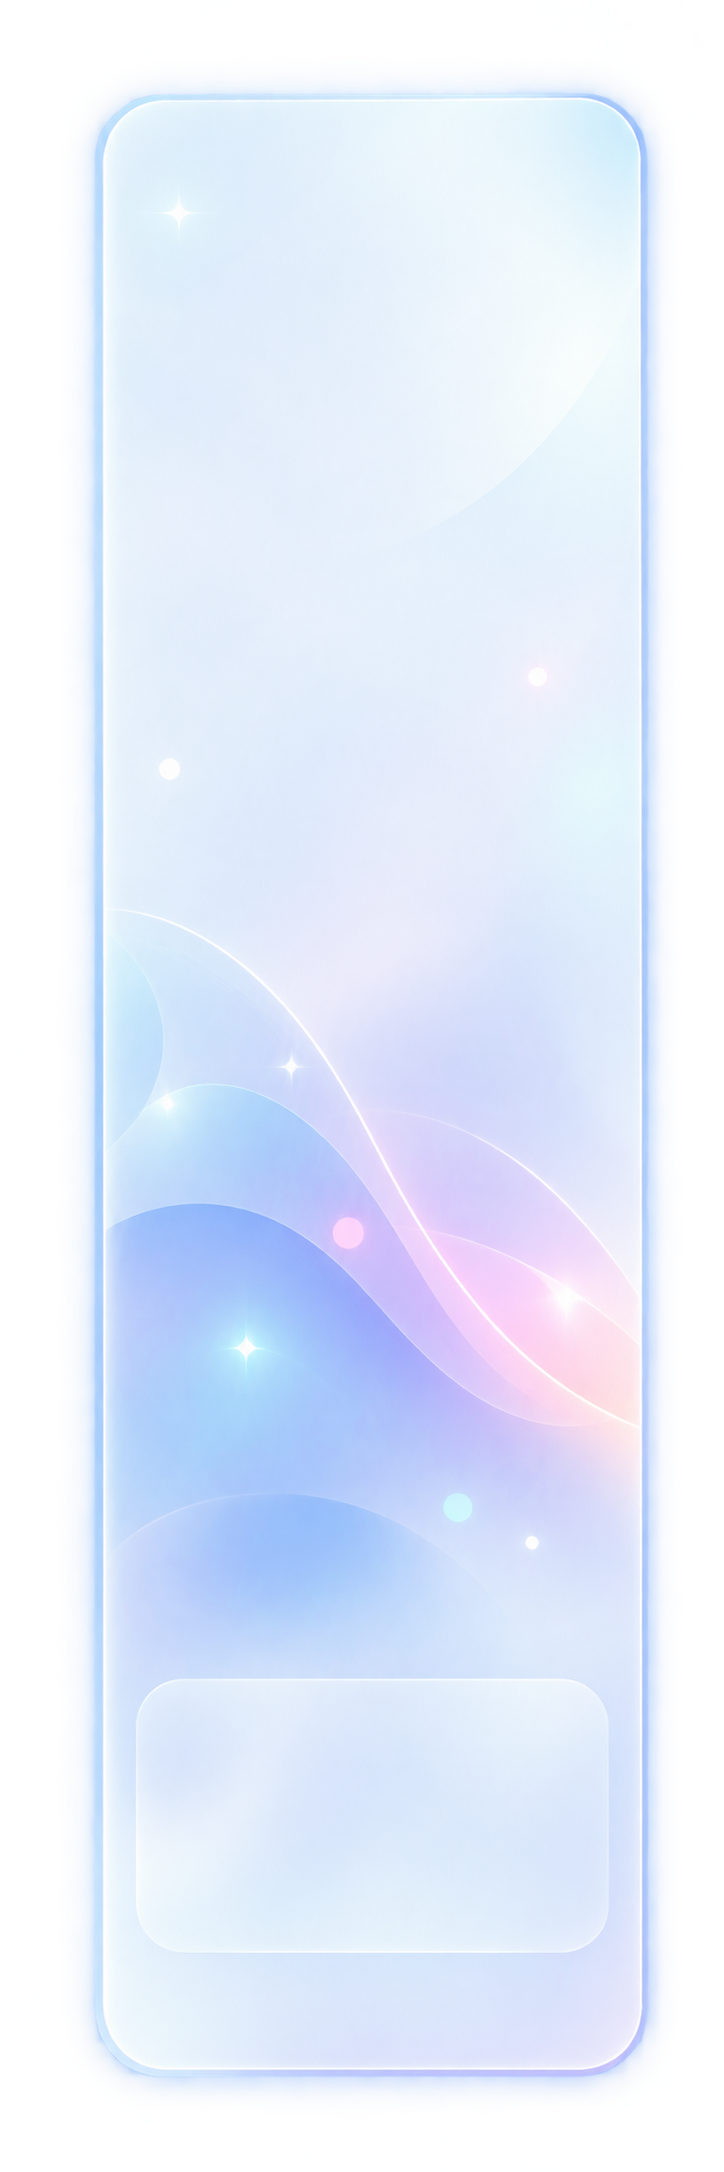
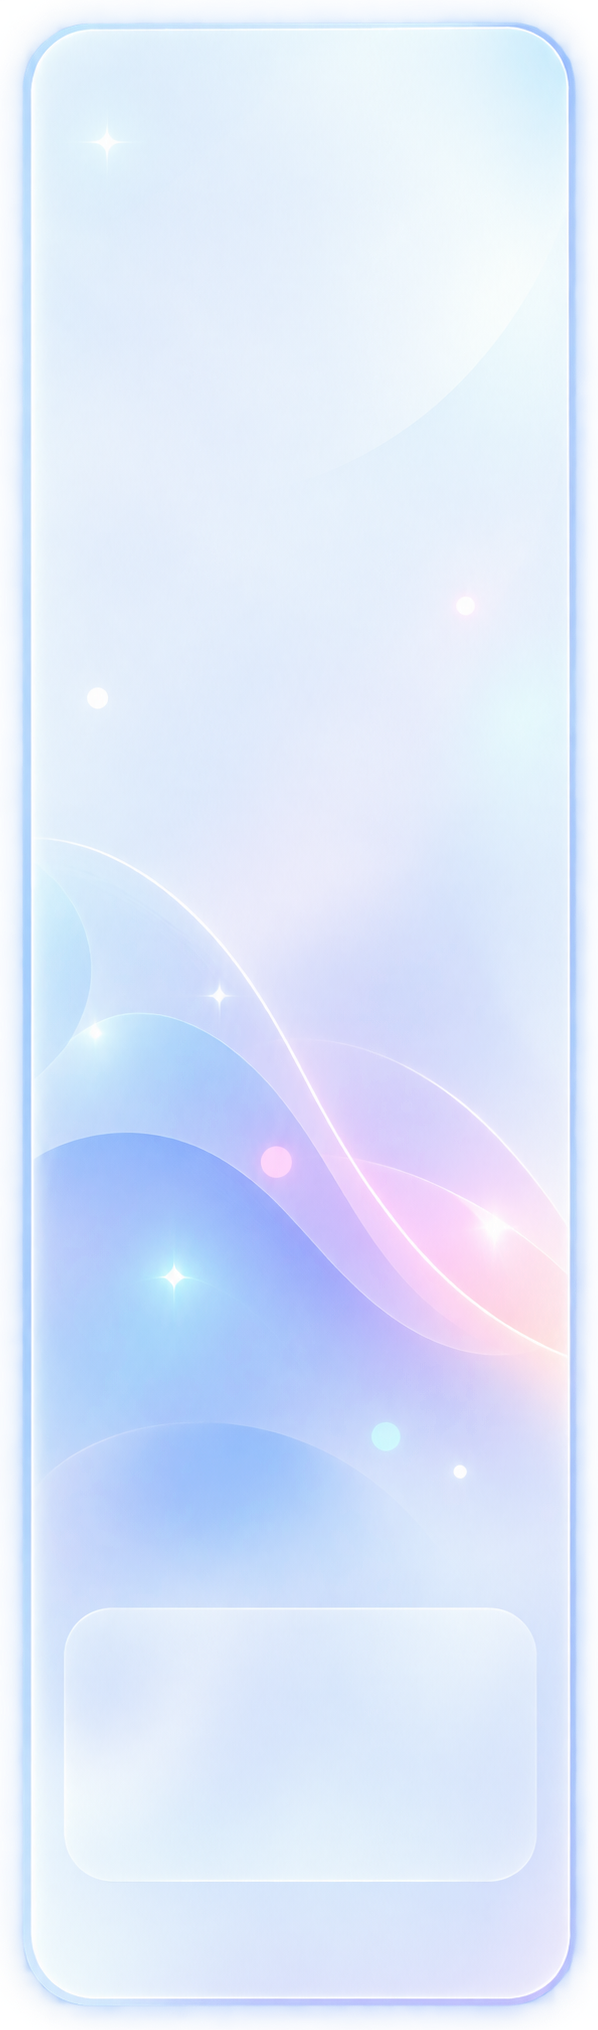
feat(ui): refine dashboard assets opacity, alignments and layout stretching

diff --git a/frontend_admin/lib/widgets/dashboard_components.dart b/frontend_admin/lib/widgets/dashboard_components.dart
@@ -41,10 +41,12 @@ abstract final class DashboardTokens {
 
 class DashboardAuroraBackground extends StatelessWidget {
   final bool useAsset;
+  final double assetOpacity;
 
   const DashboardAuroraBackground({
     super.key,
     this.useAsset = true,
+    this.assetOpacity = PremiumDashboardAssets.defaultOpacity,
   });
 
   @override
@@ -79,12 +81,16 @@ class DashboardAuroraBackground extends StatelessWidget {
           ),
           if (useAsset)
             Positioned.fill(
-              child: Image.asset(
-                PremiumDashboardAssets.mainCanvasBackground,
-                fit: BoxFit.cover,
-                alignment: Alignment.topCenter,
-                errorBuilder: (context, error, stackTrace) =>
-                    const SizedBox.shrink(),
+              child: Opacity(
+                opacity: assetOpacity,
+                child: Image.asset(
+                  PremiumDashboardAssets.mainCanvasBackground,
+                  fit: BoxFit.cover,
+                  alignment: Alignment.topCenter,
+                  filterQuality: FilterQuality.medium,
+                  errorBuilder: (context, error, stackTrace) =>
+                      const SizedBox.shrink(),
+                ),
               ),
             ),
         ],
@@ -105,6 +111,7 @@ class DashboardSurfaceCard extends StatelessWidget {
   final Color? backgroundColor;
   final Color? overlayColor;
   final List<BoxShadow>? boxShadow;
+  final double assetOpacity;
 
   const DashboardSurfaceCard({
     super.key,
@@ -119,6 +126,7 @@ class DashboardSurfaceCard extends StatelessWidget {
     this.backgroundColor,
     this.overlayColor,
     this.boxShadow,
+    this.assetOpacity = PremiumDashboardAssets.defaultOpacity,
   });
 
   @override
@@ -139,12 +147,16 @@ class DashboardSurfaceCard extends StatelessWidget {
           Positioned.fill(
             child: ClipRRect(
               borderRadius: BorderRadius.circular(borderRadius - 1),
-              child: Image.asset(
-                assetBackground!,
-                fit: assetFit,
-                alignment: assetAlignment,
-                errorBuilder: (context, error, stackTrace) =>
-                    const SizedBox.shrink(),
+              child: Opacity(
+                opacity: assetOpacity,
+                child: Image.asset(
+                  assetBackground!,
+                  fit: assetFit,
+                  alignment: assetAlignment,
+                  filterQuality: FilterQuality.medium,
+                  errorBuilder: (context, error, stackTrace) =>
+                      const SizedBox.shrink(),
+                ),
               ),
             ),
           ),
@@ -236,6 +248,9 @@ class DashboardKpiData {
   final VoidCallback? onTap;
   final String? tooltip;
   final String? assetBackground;
+  final BoxFit? assetFit;
+  final AlignmentGeometry? assetAlignment;
+  final double? assetOpacity;
 
   const DashboardKpiData({
     required this.label,
@@ -246,6 +261,9 @@ class DashboardKpiData {
     this.onTap,
     this.tooltip,
     this.assetBackground,
+    this.assetFit,
+    this.assetAlignment,
+    this.assetOpacity,
   });
 }
 
@@ -355,12 +373,18 @@ class _DashboardKpiCardState extends State<DashboardKpiCard> {
                       if (data.assetBackground != null &&
                           data.assetBackground!.isNotEmpty)
                         Positioned.fill(
-                          child: Image.asset(
-                            data.assetBackground!,
-                            fit: BoxFit.cover,
-                            alignment: Alignment.center,
-                            errorBuilder: (context, error, stackTrace) =>
-                                const SizedBox.shrink(),
+                          child: Opacity(
+                            opacity: data.assetOpacity ??
+                                PremiumDashboardAssets.defaultOpacity,
+                            child: Image.asset(
+                              data.assetBackground!,
+                              fit: data.assetFit ?? BoxFit.cover,
+                              alignment:
+                                  data.assetAlignment ?? Alignment.centerRight,
+                              filterQuality: FilterQuality.medium,
+                              errorBuilder: (context, error, stackTrace) =>
+                                  const SizedBox.shrink(),
+                            ),
                           ),
                         ),
                       Positioned(
@@ -569,7 +593,6 @@ class DashboardEmptyState extends StatelessWidget {
   }
 }
 
-
 /// Wrapper modulare per la barra laterale di navigazione della Dashboard 4.0,
 /// integrata con lo sfondo illustrato ad alta risoluzione [PremiumDashboardAssets.sidebarBackground].
 class PremiumSidebar extends StatelessWidget {
@@ -577,6 +600,7 @@ class PremiumSidebar extends StatelessWidget {
   final bool expanded;
   final double width;
   final EdgeInsetsGeometry margin;
+  final double assetOpacity;
 
   const PremiumSidebar({
     super.key,
@@ -584,6 +608,7 @@ class PremiumSidebar extends StatelessWidget {
     this.expanded = true,
     this.width = 214,
     this.margin = const EdgeInsets.fromLTRB(12, 12, 0, 12),
+    this.assetOpacity = PremiumDashboardAssets.defaultOpacity,
   });
 
   @override
@@ -592,6 +617,7 @@ class PremiumSidebar extends StatelessWidget {
       duration: const Duration(milliseconds: 220),
       curve: Curves.easeOutCubic,
       width: width,
+      height: double.infinity,
       margin: margin,
       decoration: BoxDecoration(
         color: Colors.white.withValues(alpha: 0.88),
@@ -610,12 +636,16 @@ class PremiumSidebar extends StatelessWidget {
         fit: StackFit.expand,
         children: [
           Positioned.fill(
-            child: Image.asset(
-              PremiumDashboardAssets.sidebarBackground,
-              fit: BoxFit.cover,
-              alignment: Alignment.topCenter,
-              errorBuilder: (context, error, stackTrace) =>
-                  const SizedBox.shrink(),
+            child: Opacity(
+              opacity: assetOpacity,
+              child: Image.asset(
+                PremiumDashboardAssets.sidebarBackground,
+                fit: BoxFit.cover,
+                alignment: Alignment.topCenter,
+                filterQuality: FilterQuality.medium,
+                errorBuilder: (context, error, stackTrace) =>
+                    const SizedBox.shrink(),
+              ),
             ),
           ),
           SafeArea(child: child),
@@ -631,18 +661,27 @@ class PremiumSummaryBar extends StatelessWidget {
   final Widget child;
   final EdgeInsetsGeometry padding;
   final String? semanticLabel;
+  final double opacity;
+  final BoxFit fit;
+  final AlignmentGeometry alignment;
 
   const PremiumSummaryBar({
     super.key,
     required this.child,
     this.padding = const EdgeInsets.all(20),
     this.semanticLabel,
+    this.opacity = PremiumDashboardAssets.defaultOpacity,
+    this.fit = BoxFit.cover,
+    this.alignment = Alignment.center,
   });
 
   @override
   Widget build(BuildContext context) {
     return DashboardSurfaceCard(
       assetBackground: PremiumDashboardAssets.statusSummaryBarBackground,
+      assetOpacity: opacity,
+      assetFit: fit,
+      assetAlignment: alignment,
       padding: padding,
       semanticLabel: semanticLabel,
       child: child,
@@ -656,18 +695,27 @@ class PremiumCoverageCard extends StatelessWidget {
   final Widget child;
   final EdgeInsetsGeometry padding;
   final String? semanticLabel;
+  final double opacity;
+  final BoxFit fit;
+  final AlignmentGeometry alignment;
 
   const PremiumCoverageCard({
     super.key,
     required this.child,
     this.padding = const EdgeInsets.all(20),
     this.semanticLabel,
+    this.opacity = PremiumDashboardAssets.defaultOpacity,
+    this.fit = BoxFit.cover,
+    this.alignment = Alignment.centerLeft,
   });
 
   @override
   Widget build(BuildContext context) {
     return DashboardSurfaceCard(
       assetBackground: PremiumDashboardAssets.documentCoverageCardBackground,
+      assetOpacity: opacity,
+      assetFit: fit,
+      assetAlignment: alignment,
       padding: padding,
       semanticLabel: semanticLabel,
       child: child,
@@ -681,18 +729,27 @@ class PremiumAlertCard extends StatelessWidget {
   final Widget child;
   final EdgeInsetsGeometry padding;
   final String? semanticLabel;
+  final double opacity;
+  final BoxFit fit;
+  final AlignmentGeometry alignment;
 
   const PremiumAlertCard({
     super.key,
     required this.child,
     this.padding = const EdgeInsets.all(20),
     this.semanticLabel,
+    this.opacity = PremiumDashboardAssets.defaultOpacity,
+    this.fit = BoxFit.cover,
+    this.alignment = Alignment.topCenter,
   });
 
   @override
   Widget build(BuildContext context) {
     return DashboardSurfaceCard(
       assetBackground: PremiumDashboardAssets.urgentAlertCenterCardBackground,
+      assetOpacity: opacity,
+      assetFit: fit,
+      assetAlignment: alignment,
       padding: padding,
       semanticLabel: semanticLabel,
       child: child,
@@ -706,22 +763,30 @@ class PremiumSocioDemoCard extends StatelessWidget {
   final Widget child;
   final EdgeInsetsGeometry padding;
   final String? semanticLabel;
+  final double opacity;
+  final BoxFit fit;
+  final AlignmentGeometry alignment;
 
   const PremiumSocioDemoCard({
     super.key,
     required this.child,
     this.padding = const EdgeInsets.all(20),
     this.semanticLabel,
+    this.opacity = PremiumDashboardAssets.defaultOpacity,
+    this.fit = BoxFit.cover,
+    this.alignment = Alignment.centerRight,
   });
 
   @override
   Widget build(BuildContext context) {
     return DashboardSurfaceCard(
       assetBackground: PremiumDashboardAssets.socioDemographicCardBackground,
+      assetOpacity: opacity,
+      assetFit: fit,
+      assetAlignment: alignment,
       padding: padding,
       semanticLabel: semanticLabel,
       child: child,
     );
   }
 }
-

diff --git a/frontend_admin/lib/theme/premium_dashboard_assets.dart b/frontend_admin/lib/theme/premium_dashboard_assets.dart
@@ -1,39 +1,42 @@
 /// Centralized paths and metadata for Dashboard 4.0 premium glassmorphic
 /// background assets.
 abstract final class PremiumDashboardAssets {
-  /// Sfondo della barra laterale di navigazione principale (724x2172).
+  /// Trasparenza predefinita del 50% per gli sfondi grafici glassmorphic.
+  static const double defaultOpacity = 0.50;
+
+  /// Sfondo della barra laterale di navigazione principale.
   static const String sidebarBackground =
       'assets/images/01_sidebar_background.png';
 
-  /// Sfondo dell'intero canvas operativo della Dashboard (1672x941).
+  /// Sfondo dell\'intero canvas operativo della Dashboard.
   static const String mainCanvasBackground =
       'assets/images/02_main_canvas_background.png';
 
-  /// Card metrica Utenze Attive (1672x941).
+  /// Card metrica Utenze Attive.
   static const String activeUsersCardBackground =
       'assets/images/03_card_active_users.png';
 
-  /// Card metrica Valutazioni Attive (1672x941).
+  /// Card metrica Valutazioni Attive.
   static const String activeEvaluationsCardBackground =
       'assets/images/04_card_active_evaluations.png';
 
-  /// Card metrica Scale Mancanti (1672x941).
+  /// Card metrica Scale Mancanti.
   static const String missingScalesCardBackground =
       'assets/images/05_card_missing_scales.png';
 
-  /// Barra orizzontale riepilogativa dello stato di conformità (2172x724).
+  /// Barra orizzontale riepilogativa dello stato di conformita.
   static const String statusSummaryBarBackground =
       'assets/images/06_status_summary_bar.png';
 
-  /// Card Copertura Documentale con donut chart (1448x1086).
+  /// Card Copertura Documentale con donut chart.
   static const String documentCoverageCardBackground =
       'assets/images/07_card_document_coverage.png';
 
-  /// Card Centro Alert operativo per azioni urgenti (1672x941).
+  /// Card Centro Alert operativo per azioni urgenti.
   static const String urgentAlertCenterCardBackground =
       'assets/images/08_card_urgent_alert_center.png';
 
-  /// Card Profilo Socio-Demografico (1448x1086).
+  /// Card Profilo Socio-Demografico.
   static const String socioDemographicCardBackground =
       'assets/images/09_card_socio_demographic.png';
 

diff --git a/frontend_admin/lib/main.dart b/frontend_admin/lib/main.dart
@@ -528,6 +528,7 @@ class _AdminDashboardState extends State<AdminDashboard> {
         settings.initialized &&
         settings.dashboardV4Enabled;
     return Row(
+      crossAxisAlignment: CrossAxisAlignment.stretch,
       children: [
         if (usePremiumShell)
           _buildPremiumDashboardSidebar()
